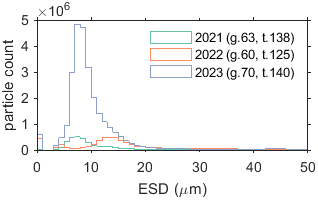
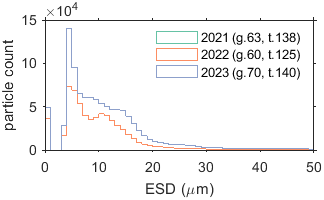
histogram again

diff --git a/NOAA/BuddInlet/plot_histogram_BI.m b/NOAA/BuddInlet/plot_histogram_BI.m
@@ -11,7 +11,7 @@ filepath = 'C:\Users\ifcbuser\Documents\GitHub\bloom-baby-bloom\';
 load([filepath 'IFCB-Data/BuddInlet/eqdiam_biovol_2021'],'ESD','matdate','filecomment','runtype');
 dt=datetime(matdate,'convertfrom','datenum');
 idx=(contains(filecomment,'trigger')); ESD(idx)=[]; dt(idx)=[]; runtype(idx)=[]; 
-idx=(contains(runtype,{'ALT','Alternative'})); ESD(idx)=[];  dt(idx)=[];
+idx=~(contains(runtype,{'ALT','Alternative'})); ESD(idx)=[];  dt(idx)=[];
 idx=find(dt.Month==1 | dt.Month==2 | dt.Month==3 | dt.Month==10 | dt.Month==11 | dt.Month==12); ESD(idx)=[]; dt(idx)=[]; 
 E1=ESD;
 clearvars runtype filecomment dt idx matdate ESD
@@ -19,7 +19,7 @@ clearvars runtype filecomment dt idx matdate ESD
 load([filepath 'IFCB-Data/BuddInlet/eqdiam_biovol_2022'],'ESD','matdate','filecomment','runtype');
 dt=datetime(matdate,'convertfrom','datenum');
 idx=(contains(filecomment,'trigger')); ESD(idx)=[]; dt(idx)=[]; runtype(idx)=[]; 
-idx=(contains(runtype,{'ALT','Alternative'})); ESD(idx)=[];  dt(idx)=[];
+idx=~(contains(runtype,{'ALT','Alternative'})); ESD(idx)=[];  dt(idx)=[];
 idx=find(dt.Month==1 | dt.Month==2 | dt.Month==3 | dt.Month==10 | dt.Month==11 | dt.Month==12); ESD(idx)=[]; dt(idx)=[]; 
 E2=ESD;
 clearvars runtype filecomment dt idx matdate ESD
@@ -27,7 +27,7 @@ clearvars runtype filecomment dt idx matdate ESD
 load([filepath 'IFCB-Data/BuddInlet/eqdiam_biovol_2023'],'ESD','matdate','filecomment','runtype');
 dt=datetime(matdate,'convertfrom','datenum');
 idx=(contains(filecomment,'trigger')); ESD(idx)=[]; dt(idx)=[]; runtype(idx)=[]; 
-idx=(contains(runtype,{'ALT','Alternative'})); ESD(idx)=[];  dt(idx)=[];
+idx=~(contains(runtype,{'ALT','Alternative'})); ESD(idx)=[];  dt(idx)=[];
 idx=find(dt.Month==1 | dt.Month==2 | dt.Month==3 | dt.Month==10 | dt.Month==11 | dt.Month==12); ESD(idx)=[]; dt(idx)=[]; 
 E3=ESD;
 clearvars runtype filecomment dt idx matdate ESD
@@ -59,7 +59,7 @@ load([filepath 'IFCB-Data\BuddInlet\manual\summary_meso_width_manual'],'filecomm
 
 %remove: discrete samples and PMTA triggers
 idx=(contains(filecomment,'trigger')); ESD(idx)=[]; mdate(idx)=[]; filecomment(idx)=[]; runtype(idx)=[];
-idx=(contains(runtype,{'ALT','Alternative'})); ESD(idx)=[]; mdate(idx)=[]; filecomment(idx)=[]; runtype(idx)=[];
+idx=~(contains(runtype,{'ALT','Alternative'})); ESD(idx)=[]; mdate(idx)=[]; filecomment(idx)=[]; runtype(idx)=[];
 dt=datetime(mdate,'convertfrom','datenum')';
 
 % remove data from October-March
@@ -79,9 +79,9 @@ subplot(2,1,1)
     set(gca,'xlim',[0 50],'xticklabel',{},'fontsize',10,'tickdir','out');
     ylabel('particle count','fontsize',11)
     xline(19,':','linewidth',1.5); hold on;    
-%    legend('2021','2022','2023'); legend boxoff;    
-    legend('2021 (g.63, t.138)','2022 (g.60, t.125)','2023 (g.70, t.140)'); legend boxoff;
-    title('PMTB')
+    legend('2021','2022','2023'); legend boxoff;    
+%    legend('2021 (g.63, t.138)','2022 (g.60, t.125)','2023 (g.70, t.140)'); legend boxoff;
+    title('PMTA')
 
 subplot(2,1,2)
 yrlist=[2021;2022;2023];
@@ -98,5 +98,5 @@ end
 
 % set figure parameters
 %exportgraphics(gcf,[filepath 'NOAA/BuddInlet/Figs/Mesodinium_ESD_histogram_yr.png'],'Resolution',100)    
-exportgraphics(gcf,[filepath 'NOAA\BuddInlet\Figs\Mesodinium_ESD_histogram_PMTB.png'],'Resolution',100)    
+exportgraphics(gcf,[filepath 'NOAA\BuddInlet\Figs\Mesodinium_ESD_histogram_PMTA.png'],'Resolution',100)    
 hold off
